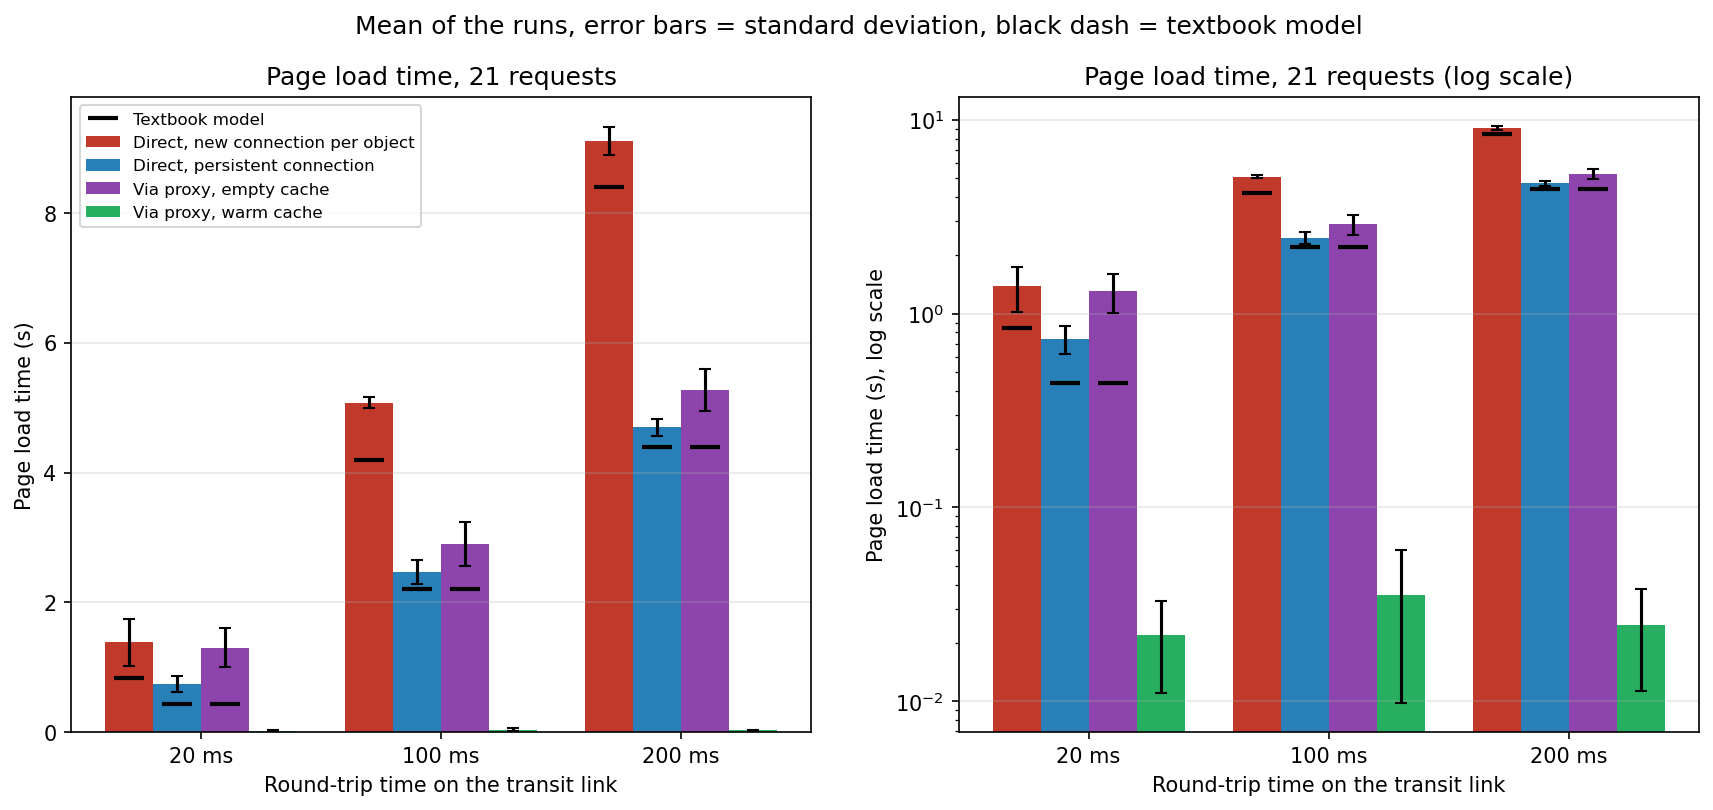
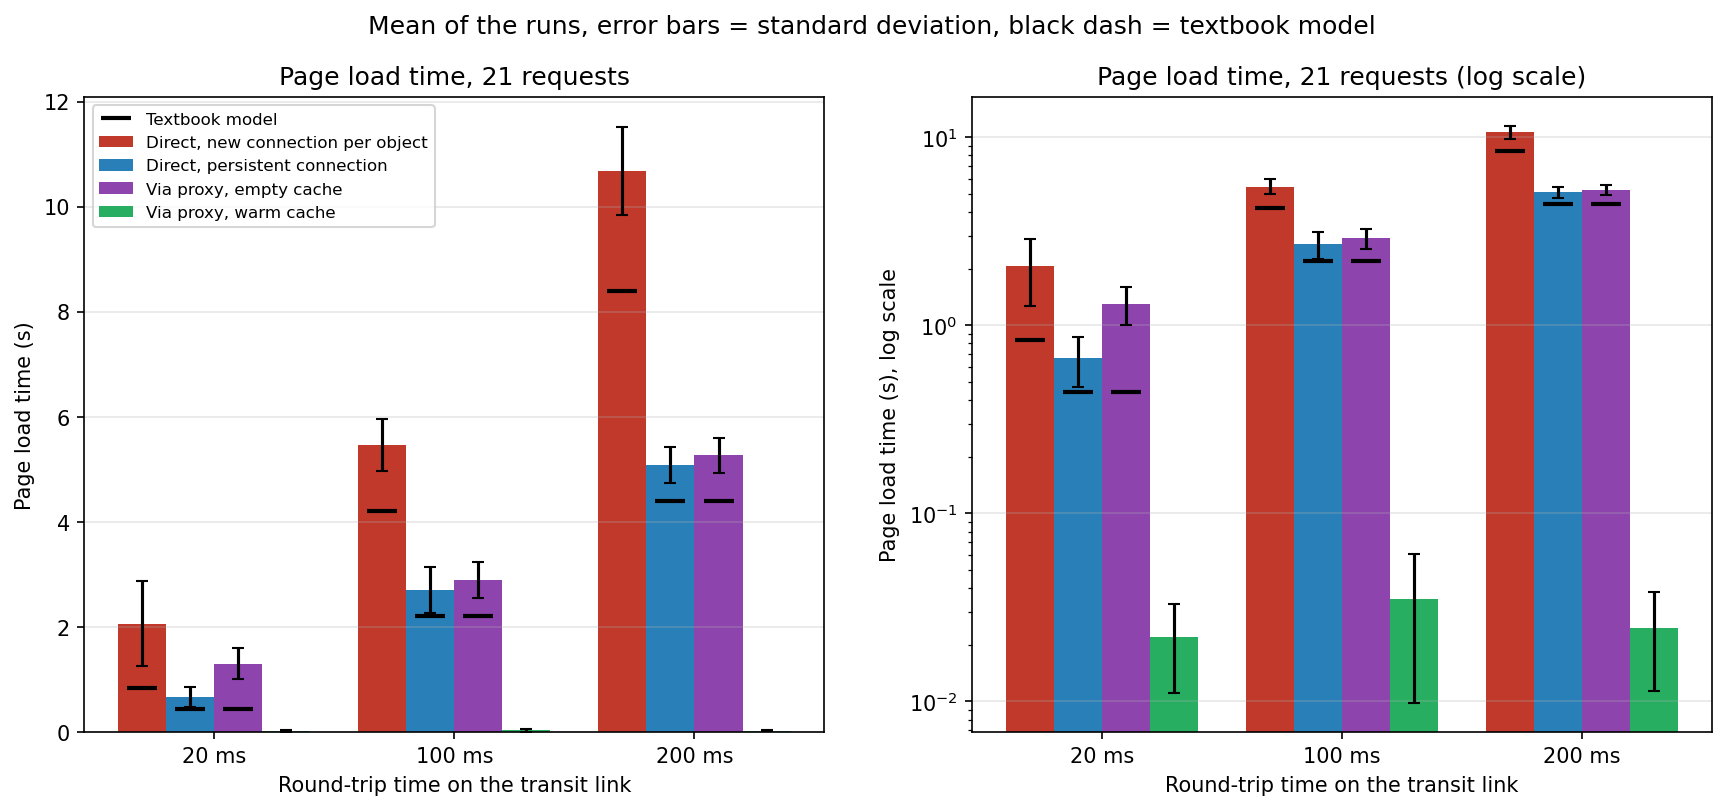
Day 6: analysis against textbook model with real numbers

diff --git a/docs/analysis.md b/docs/analysis.md
@@ -1,0 +1,114 @@
+# Analysis: measured results vs the textbook model
+
+## 1. The textbook model
+
+Kurose and Ross (Chapter 2) say that fetching one object over HTTP costs 1 RTT to set up the TCP connection plus 1 RTT for the request and response, with transmission time ignored. For the test page (1 base page + 20 objects = 21 requests, fetched one at a time):
+
+- Non-persistent HTTP: 21 x 2 RTT = 42 RTT, with 21 TCP connections.
+- Persistent HTTP without pipelining: 1 RTT (handshake) + 21 x 1 RTT = 22 RTT, with 1 TCP connection.
+
+Predictions: 8.4 s vs 4.4 s at 200 ms, 4.2 s vs 2.2 s at 100 ms, and 0.84 s vs 0.44 s at 20 ms. All page-load experiments (direct and through the proxy), the cache hit ratio, the repeat visits and both ApacheBench benchmarks were run on one machine (Samiya's), a VirtualBox virtual machine on a laptop, with 5 runs per page-load case.
+
+## 2. Non-persistent vs persistent (direct, no proxy)
+
+| RTT (ms) | Case | Mean ± std dev (s) | Fastest run (s) | Model (s) | Mean vs model | Fastest run vs model |
+|---|---|---|---|---|---|---|
+| 20 | Non-persistent | 2.066 ± 0.805 | 0.955 | 0.840 | +145.9% | +13.7% |
+| 20 | Persistent | 0.666 ± 0.195 | 0.537 | 0.440 | +51.5% | +22.0% |
+| 100 | Non-persistent | 5.467 ± 0.501 | 4.947 | 4.200 | +30.2% | +17.8% |
+| 100 | Persistent | 2.705 ± 0.444 | 2.416 | 2.200 | +22.9% | +9.8% |
+| 200 | Non-persistent | 10.674 ± 0.841 | 9.430 | 8.400 | +27.1% | +12.3% |
+| 200 | Persistent | 5.083 ± 0.348 | 4.777 | 4.400 | +15.5% | +8.6% |
+
+- Both modes scale linearly with the RTT, and non-persistent HTTP is always much slower. The ratio non-persistent / persistent of the means is 3.10 at 20 ms, 2.02 at 100 ms and 2.10 at 200 ms (model: 1.91). Using the fastest run of each case, the ratios are 1.78, 2.05 and 1.97, close to the model.
+- Persistence saved 1.40 s at 20 ms, 2.76 s at 100 ms and 5.59 s at 200 ms.
+- Every measured mean is above the model: by 27% to 146% for non-persistent and 16% to 52% for persistent HTTP. The excess is largest at 20 ms, where the model value is only 0.44 to 0.84 s and a delay of a few hundred milliseconds changes the result a lot. It is also noisiest there: the standard deviation is 39% of the mean for non-persistent and 29% for persistent HTTP at 20 ms, but only 6.8% to 16.4% at 100 and 200 ms.
+- The fastest run of each case, which is the run least disturbed by the virtual machine, is 8.6% to 22.0% above the model. The model ignores transmission and processing time, so a small positive difference is expected.
+- Run-to-run variation is large relative to the differences between cases at 100 and 200 ms, so these results show the trend clearly (about a factor of 2 between the two modes, scaling with the RTT) but not precise percentages. An earlier run of the same direct experiment on the other team member's machine (kept in experiments/results/direct_full_iqra_machine.csv) gave different absolute times, which also shows that the absolute results depend on the host machine.
+
+## 3. Effective RTT in the virtual machine
+
+Ping with 20 samples per setting (docs/evidence/ping_effective_rtt.txt):
+
+| Nominal RTT (ms) | min (ms) | avg (ms) | max (ms) | std dev (ms) | avg minus nominal (ms) |
+|---|---|---|---|---|---|
+| 20 | 20.985 | 44.323 | 298.561 | 61.051 | +24.3 (+122%) |
+| 100 | 100.860 | 112.535 | 154.264 | 17.792 | +12.5 (+13%) |
+| 200 | 201.692 | 250.959 | 465.750 | 68.067 | +51.0 (+25%) |
+
+- The minimum RTT is within 1.0, 0.9 and 1.7 ms of the nominal value, so tc netem applies the intended delay.
+- The average is above nominal by an amount that is not constant (24.3, 12.5 and 51.0 ms), and the maxima reach 299, 154 and 466 ms. The extra time therefore comes from occasional large delays in the virtual machine (most likely CPU scheduling of the VM and of the network namespaces), and not from a fixed cost per round trip. This is also why the standard deviation of the page-load times is so large at 20 ms.
+- Python processing time cannot explain the excess. A page load from a warm proxy cache takes only 22 to 35 ms for all 21 requests (about 1 to 2 ms per request, including the client and the proxy), while the measured excess over the model is 11 to 108 ms per request (see docs/results_tables.md).
+
+If the nominal RTT is replaced by the average RTT measured with ping in the same virtual machine, the model moves much closer to the measurements:
+
+| Nominal RTT (ms) | Average ping (ms) | 42 x avg (s) | Measured non-persistent (s) | Difference | 22 x avg (s) | Measured persistent (s) | Difference |
+|---|---|---|---|---|---|---|---|
+| 20 | 44.3 | 1.862 | 2.066 | +11.0% | 0.975 | 0.666 | -31.7% |
+| 100 | 112.5 | 4.726 | 5.467 | +15.7% | 2.476 | 2.705 | +9.3% |
+| 200 | 251.0 | 10.540 | 10.674 | +1.3% | 5.521 | 5.083 | -7.9% |
+
+At 100 and 200 ms the prediction with the measured RTT is within 16% of the measurement (with the nominal RTT the differences were +15% to +30%). At 20 ms the average ping is dominated by a few spikes, so the persistent prediction is 32% too high. The ping sample (20 pings per setting) was taken at a different time from the page loads, so it supports a qualitative explanation (a jittery, slower effective RTT) but is not a precise correction.
+
+## 4. TCP connections per page
+
+The client opened 21 connections in non-persistent mode and 1 in persistent mode, in every run and at every RTT. This was confirmed with two independent methods: counting SYN packets in the captures (21 and 1 SYN packets in captures/connections_nonpersistent_rtt100.pcap and captures/connections_persistent_rtt100.pcap), and sampling `ss` (1 distinct client port for the persistent load; 20 for the non-persistent load, because one very short-lived connection fell between two 50 ms samples, so the SYN count is the authoritative one). This matches the textbook model exactly.
+
+## 5. The caching proxy
+
+| RTT (ms) | Direct persistent (s) | Proxy, empty cache (s) | Difference | Proxy, warm cache (s) | Warm speed-up vs direct persistent |
+|---|---|---|---|---|---|
+| 20 | 0.666 ± 0.195 | 1.302 ± 0.297 | +95.4% | 0.022 ± 0.011 | 30x |
+| 100 | 2.705 ± 0.444 | 2.900 ± 0.341 | +7.2% | 0.035 ± 0.025 | 77x |
+| 200 | 5.083 ± 0.348 | 5.267 ± 0.326 | +3.6% | 0.025 ± 0.013 | 206x |
+
+- **Empty cache.** The proxy keeps one persistent connection to the origin, so a page with an empty cache costs the same 22 RTT as direct persistent HTTP, and the measurements agree: at 100 and 200 ms the proxy is only 7.2% and 3.6% slower, and the difference (0.195 s and 0.184 s) is smaller than the run-to-run standard deviation (0.33 to 0.44 s), so it is not significant. That is about 9 ms per request, far more than the 1 to 2 ms the proxy needs for a cache hit, so it is noise and not proxy processing. At 20 ms the proxy is 95% slower (0.636 s, about 30 ms per request). This is larger than the standard error of the difference (about 0.16 s), but 20 ms is the noisiest setting and we cannot explain this value with the data we have. More runs at 20 ms would be needed to settle it.
+- **Warm cache.** The page loads in 22 to 35 ms at every RTT, and the three values do not depend on the RTT (they differ by less than their standard deviations). No packet crosses the delayed link, because the client only talks to the proxy on LAN-A. This is 30 to 206 times faster than direct persistent HTTP and removes 96.7% to 99.5% of the load time.
+- **What the upstream connection pool saves.** With the pool switched off (--no-upstream-keepalive, 3 runs at 100 ms in a separate session) every cache miss opens a new connection to the origin (upstream_connects = 21, upstream_reused = 0) and the page took 4.765 s (std dev 0.063 s). That is 13.5% above the 42 RTT model value of 4.2 s, and 1.865 s (39%) slower than the same page with the pool (2.900 s, 22 RTT). The measured ratio of 1.64 is a little below 42/22 = 1.91, again because of the extra time in the virtual machine.
+
+## 6. Conditional GET and repeat visits (RTT 100 ms, TTL 5 s, one run per visit)
+
+| Visit | Load time (s) | Proxy log outcomes |
+|---|---|---|
+| 1: empty cache | 3.035 | 21 MISS |
+| 2: fresh entries | 0.011 | 21 HIT |
+| 3: stale, nothing changed | 3.360 | 21 REVALIDATE_304 |
+| 4: stale, 5 objects changed | 3.231 | 5 REVALIDATE_200, 16 REVALIDATE_304 |
+
+- Visit 3 took 3.360 s, not near zero. Each of the 21 conditional GETs still crosses the delayed link and costs 1 RTT, so a revalidation is about as slow as a cache miss (3.035 s). The saving of a 304 is bytes, not time. The 3 slow visits differ by less than the standard deviation of the empty-cache case at 100 ms (0.34 s), so their differences are not significant (one run each).
+- Visit 4 behaves as expected: the 5 objects that were touched (obj01 to obj05) returned 200 with a new ETag and were replaced, and the other 16 returned 304.
+- A 304 response is 213 bytes (headers only), while a full 200 is 10,506 bytes (266 bytes of headers + 10,240 bytes of body). One 304 therefore saves 10,293 bytes (98% of the response). The 37 REVALIDATE_304 responses of this experiment saved 380,841 bytes (about 372 KiB).
+
+## 7. Cache hit ratio
+
+Hit ratio = (HIT + REVALIDATE_304) / GET requests.
+
+- Five consecutive page loads with a long TTL (3600 s): the first load is 21 MISS and the other four are 21 HIT each, so the ratio is 84 / 105 = 0.800.
+- Repeat-visit experiment (4 visits, 84 GET requests: 21 MISS, 21 HIT, 37 REVALIDATE_304, 5 REVALIDATE_200): (21 + 37) / 84 = 0.690.
+
+## 8. Throughput (ApacheBench)
+
+Both the origin server and the proxy were benchmarked on the same machine (Samiya's) at RTT 0, with 3000 requests per run and 3 runs per case, always for the same 10 KB object (the proxy only answered cache hits). Medians and ranges are reported because the runs of the same case varied by up to about 4 times on the virtualised host (mostly in the cases without keep-alive).
+
+| Target | Concurrency | No keep-alive: median (min-max) req/s | Keep-alive (-k): median (min-max) req/s | Keep-alive speed-up |
+|---|---|---|---|---|
+| Origin server | 1 | 513 (472-1128) | 3289 (2806-4034) | 6.4x |
+| Origin server | 10 | 420 (364-1430) | 1412 (1145-2393) | 3.4x |
+| Origin server | 50 | 1469 (399-1512) | 6319 (3261-6670) | 4.3x |
+| Caching proxy | 1 | 480 (360-566) | 4032 (1824-5179) | 8.4x |
+| Caching proxy | 10 | 586 (515-1404) | 5932 (4158-6013) | 10.1x |
+| Caching proxy | 50 | 557 (536-1538) | 1733 (1702-1770) | 3.1x |
+
+- Keep-alive raised the throughput by a factor of 3.1 to 10.1 in every case, because no new TCP connection and handshake is needed for each request.
+- No error responses were recorded in any run (Non-2xx responses = 0 in all rows), so all requests were normal 200 responses.
+- The proxy was faster than the origin with keep-alive at concurrency 1 (1.2 times) and 10 (4.2 times) and slower at concurrency 50 (the origin was 3.6 times faster). The ordering is not consistent and the runs vary a lot, so this comparison is inconclusive; no result in this table should be read as more precise than a factor of about 2 to 4. The throughput does not grow steadily with the concurrency either, which is expected when many Python threads share one interpreter lock (GIL) on a virtual machine with few CPUs.
+- The concurrency was kept at or below the 64 worker threads of the origin server, because a persistent connection occupies one worker for as long as it stays open.
+
+## 9. Limitations
+
+- The measured page-load times are 15% to 146% above the model (8.6% to 22% for the fastest run of each case). The explanation supported by our data is jitter in the virtual machine (ping maxima of 299 to 466 ms, section 3), together with the processing and transmission time that the model ignores. The trend (a factor of about 2 between non-persistent and persistent HTTP, linear growth with the RTT, 21 vs 1 connections) agrees with the textbook.
+- Only 5 runs per page-load case were made, so the means have a large uncertainty at 20 ms (standard deviation up to 0.8 s) and the 20 ms results should be read with caution.
+- The proxy was measured against direct persistent HTTP on the same machine. At 100 and 200 ms the difference is not significant; at 20 ms the cause of the larger difference is unresolved.
+- The proxy does not support chunked responses, pipelining, range requests or HTTPS. Simultaneous first requests for the same URL can all be misses (no request coalescing).
+- The repeat-visit experiment used one run per visit, so its load times show the pattern but have no error estimate.
+- Optional extras of the proposal were not done: packet loss with tc netem loss, bandwidth limits with tc tbf, and parallel connections.

diff --git a/docs/results_tables.md b/docs/results_tables.md
@@ -4,16 +4,16 @@
 
 | RTT (ms) | Case | Runs | Mean (s) | Std dev (s) | Range (s) | TCP conns | Model (s) | Diff vs model | Extra ms per request | All 200 OK |
 |---|---|---|---|---|---|---|---|---|---|---|
-| 20 | Direct, new connection per object | 5 | 1.382 | 0.360 | 1.094-1.999 | 21 | 0.840 | +64.5% | 25.8 | yes |
-| 20 | Direct, persistent connection | 5 | 0.743 | 0.122 | 0.638-0.943 | 1 | 0.440 | +68.8% | 14.4 | yes |
+| 20 | Direct, new connection per object | 5 | 2.066 | 0.805 | 0.955-2.720 | 21 | 0.840 | +145.9% | 58.4 | yes |
+| 20 | Direct, persistent connection | 5 | 0.666 | 0.195 | 0.537-0.995 | 1 | 0.440 | +51.5% | 10.8 | yes |
 | 20 | Via proxy, empty cache | 5 | 1.302 | 0.297 | 0.949-1.701 | 1 | 0.440 | +196.0% | 41.1 | yes |
 | 20 | Via proxy, warm cache | 5 | 0.022 | 0.011 | 0.006-0.036 | 1 | - | - | - | yes |
-| 100 | Direct, new connection per object | 5 | 5.079 | 0.085 | 4.964-5.198 | 21 | 4.200 | +20.9% | 41.8 | yes |
-| 100 | Direct, persistent connection | 5 | 2.461 | 0.185 | 2.283-2.754 | 1 | 2.200 | +11.9% | 12.4 | yes |
+| 100 | Direct, new connection per object | 5 | 5.467 | 0.501 | 4.947-6.252 | 21 | 4.200 | +30.2% | 60.3 | yes |
+| 100 | Direct, persistent connection | 5 | 2.705 | 0.444 | 2.416-3.485 | 1 | 2.200 | +22.9% | 24.0 | yes |
 | 100 | Via proxy, empty cache | 5 | 2.900 | 0.341 | 2.511-3.229 | 1 | 2.200 | +31.8% | 33.3 | yes |
 | 100 | Via proxy, warm cache | 5 | 0.035 | 0.025 | 0.015-0.077 | 1 | - | - | - | yes |
-| 200 | Direct, new connection per object | 5 | 9.111 | 0.213 | 8.854-9.329 | 21 | 8.400 | +8.5% | 33.8 | yes |
-| 200 | Direct, persistent connection | 5 | 4.696 | 0.131 | 4.541-4.898 | 1 | 4.400 | +6.7% | 14.1 | yes |
+| 200 | Direct, new connection per object | 5 | 10.674 | 0.841 | 9.430-11.630 | 21 | 8.400 | +27.1% | 108.3 | yes |
+| 200 | Direct, persistent connection | 5 | 5.083 | 0.348 | 4.777-5.684 | 1 | 4.400 | +15.5% | 32.5 | yes |
 | 200 | Via proxy, empty cache | 5 | 5.267 | 0.326 | 4.789-5.670 | 1 | 4.400 | +19.7% | 41.3 | yes |
 | 200 | Via proxy, warm cache | 5 | 0.025 | 0.013 | 0.012-0.044 | 1 | - | - | - | yes |
 
@@ -21,9 +21,9 @@
 
 | RTT (ms) | Non-persistent / persistent | Seconds saved by persistence | Proxy empty vs direct persistent | Warm proxy speed-up vs direct persistent | Load-time reduction (warm proxy) |
 |---|---|---|---|---|---|
-| 20 | 1.86x (model 1.91x) | 0.64 | +75.3% | 34x | 97.0% |
-| 100 | 2.06x (model 1.91x) | 2.62 | +17.8% | 70x | 98.6% |
-| 200 | 1.94x (model 1.91x) | 4.41 | +12.1% | 190x | 99.5% |
+| 20 | 3.10x (model 1.91x) | 1.40 | +95.4% | 30x | 96.7% |
+| 100 | 2.02x (model 1.91x) | 2.76 | +7.2% | 77x | 98.7% |
+| 200 | 2.10x (model 1.91x) | 5.59 | +3.6% | 206x | 99.5% |
 
 ## Repeat visits (RTT 100 ms, TTL 5 s)
 
